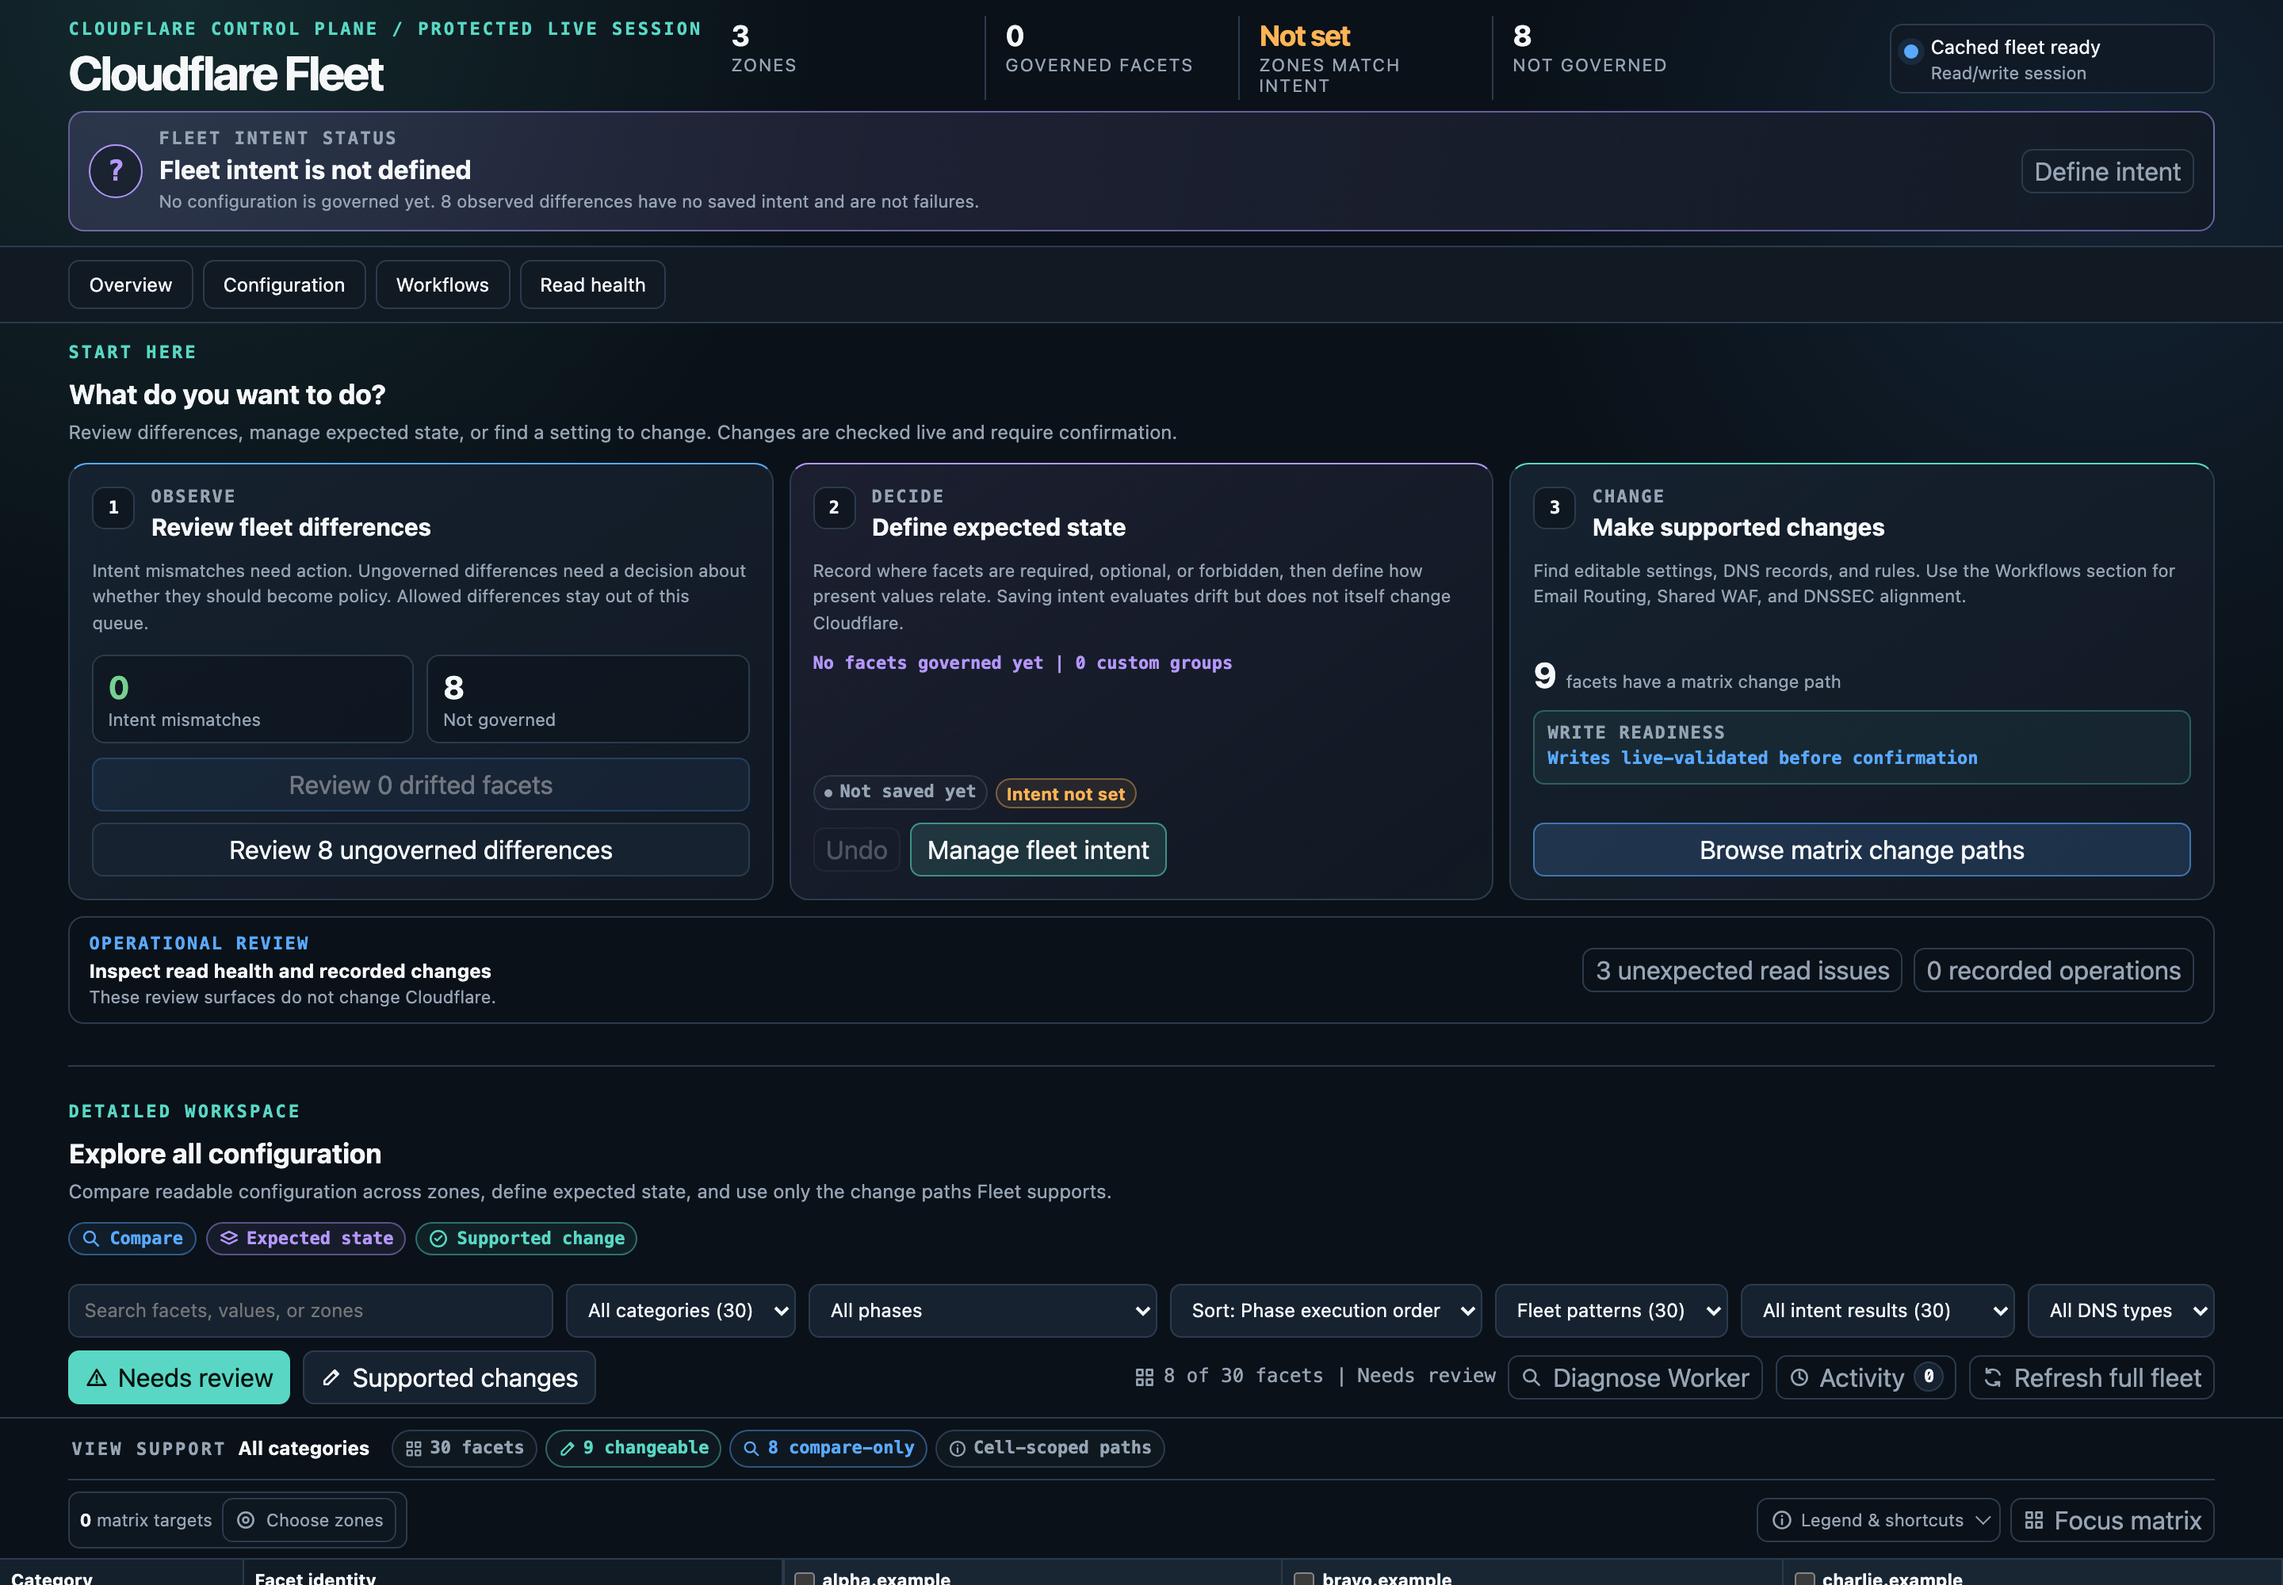
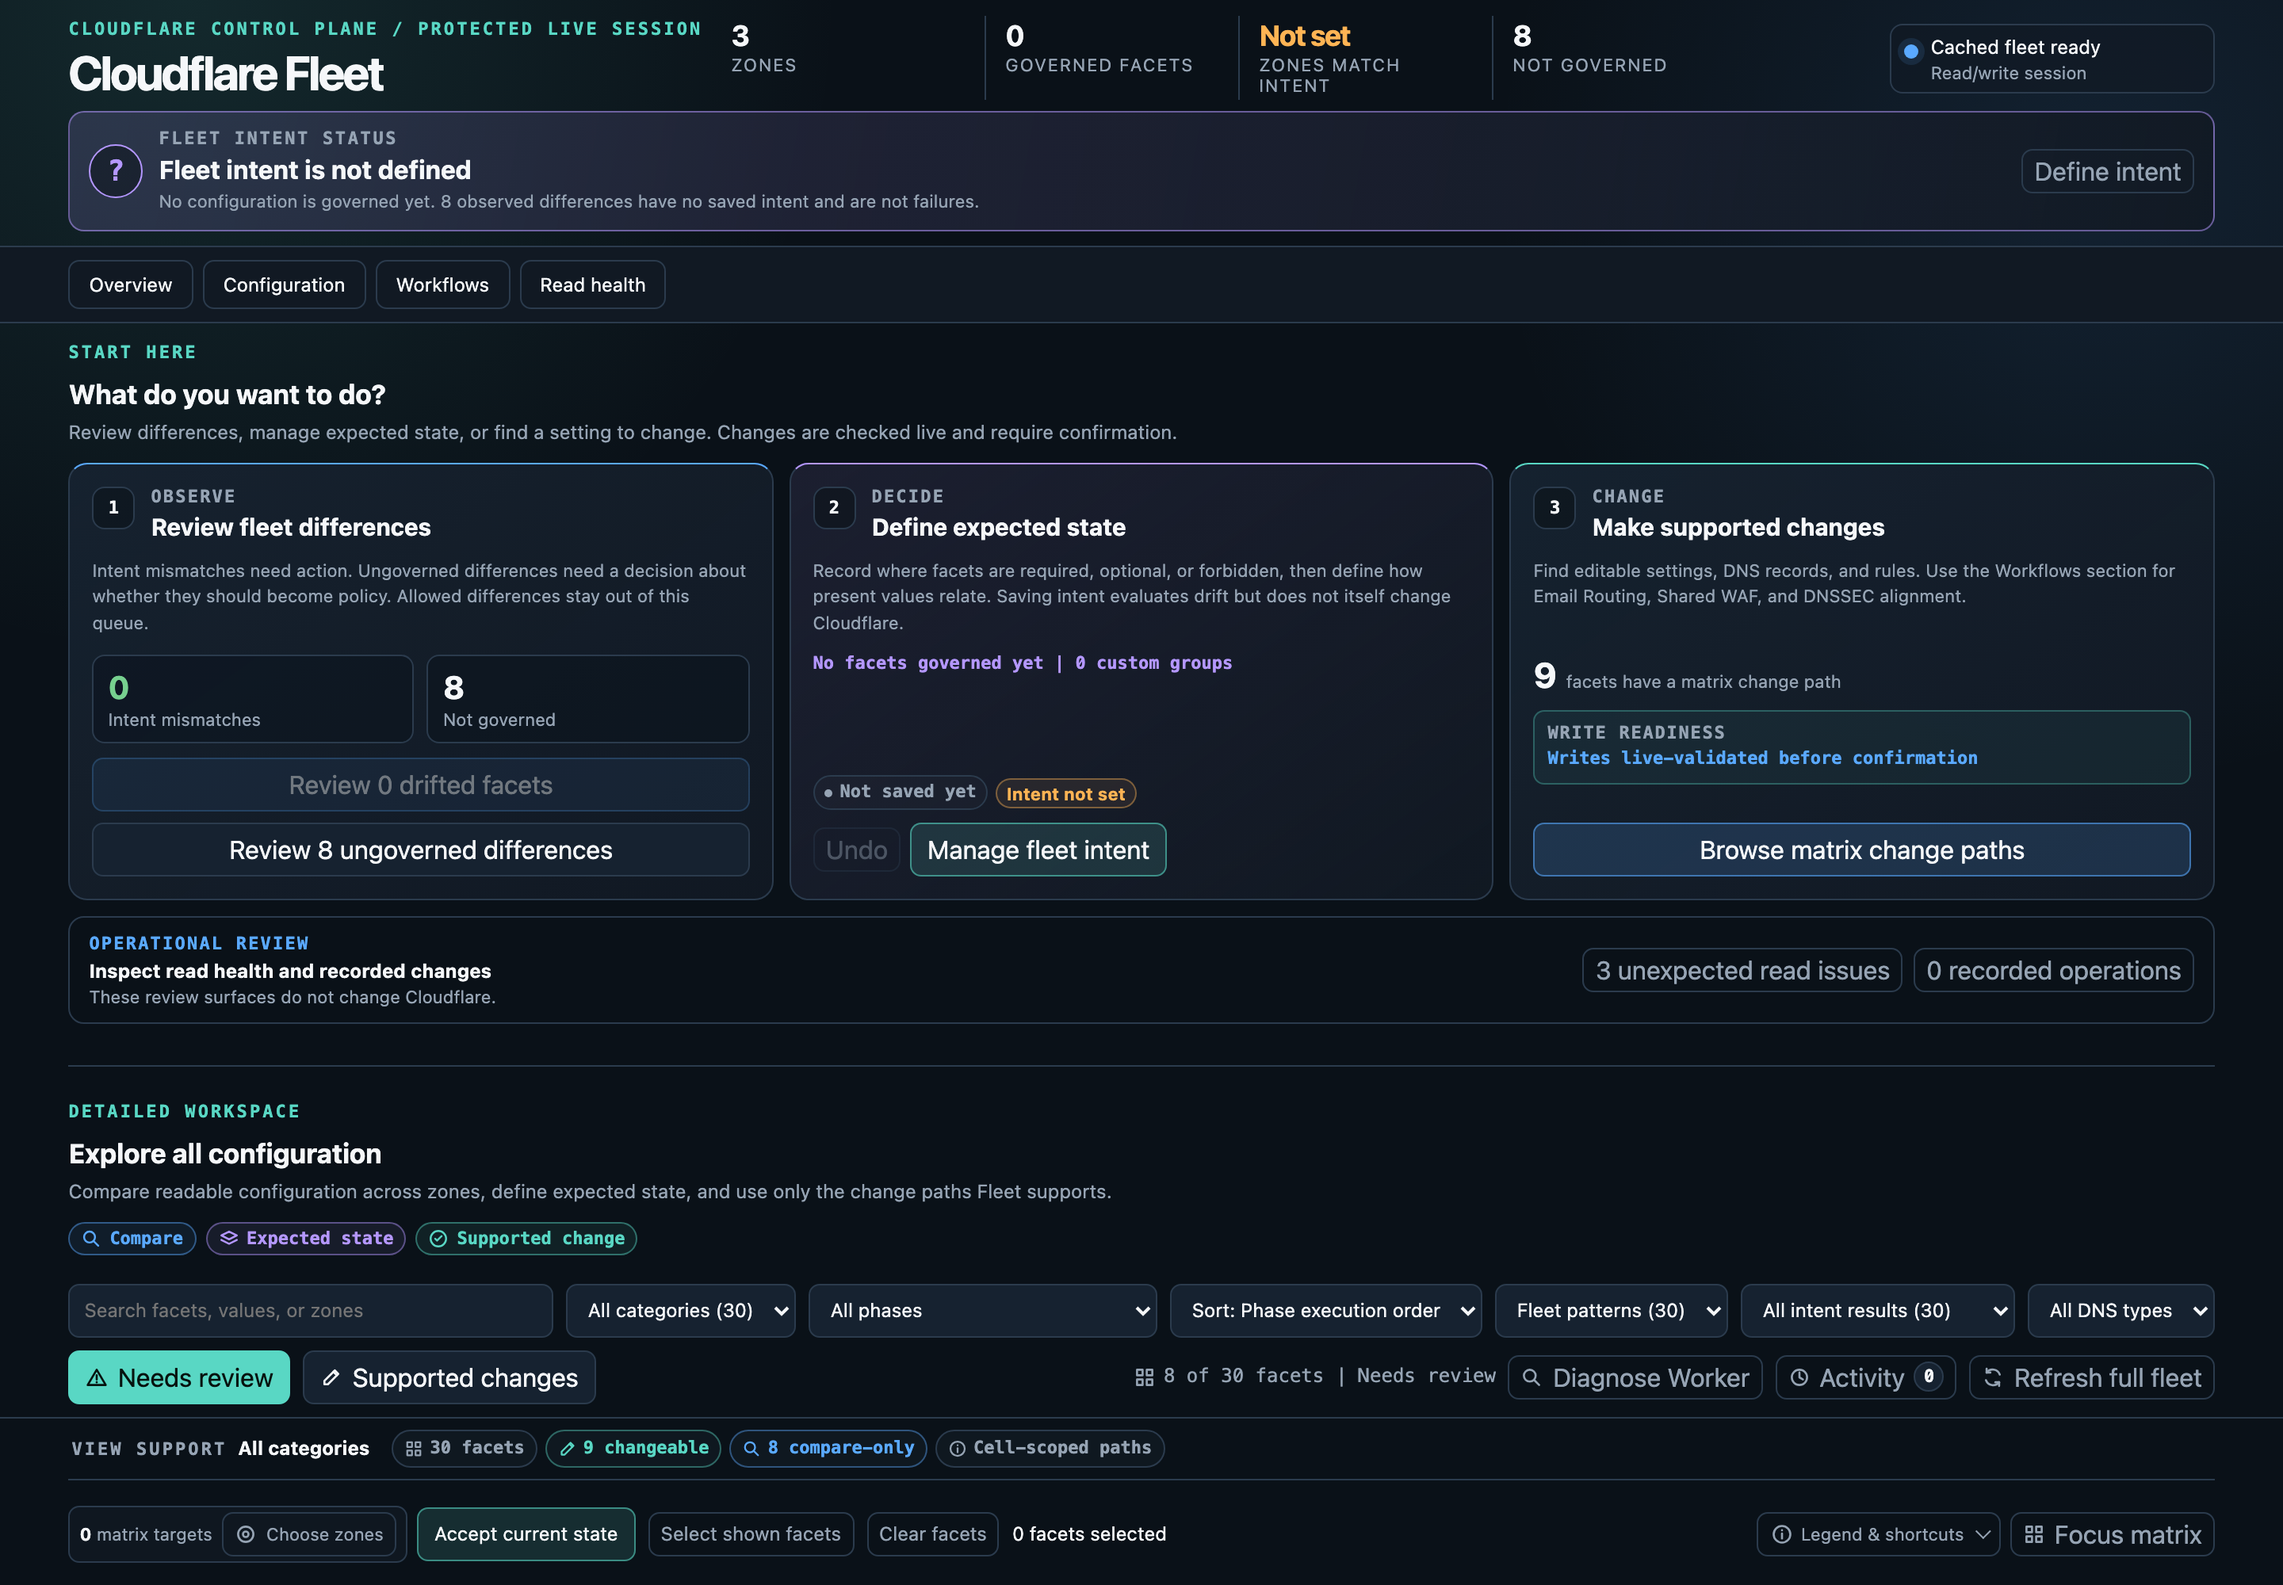
docs: illustrate current-state intent and rule copying
- Capture the compact intent editor and source and destination picker
- Explain everyday intent decisions with synthetic fleet screenshots
- Refresh product images and include them in the publication allowlist

Changed region(s): [[0.0, 0.93, 1.0, 1.0]]

diff --git a/docs/index.html b/docs/index.html
@@ -98,6 +98,22 @@
       </div>
     </section>
 
+    <section class="section" aria-labelledby="intent-workflows-heading">
+      <div class="section-heading">
+        <p class="eyebrow">Everyday configuration</p>
+        <h2 id="intent-workflows-heading">Record good state and reuse rules</h2>
+        <p>Accept current values for one facet or a selected batch, keeping deliberate differences between zones. Assign a saved expectation to several groups in one save. Copy a rule by choosing its source and destinations directly, then review the proposed changes.</p>
+      </div>
+      <figure class="screenshot-frame">
+        <img src="screenshots/intent-current.png" width="1440" height="1000" alt="Compact current-state intent editor showing selected zones, differing rule values, and one Save intent action.">
+        <figcaption class="screenshot-caption">Current is good records intent without changing Cloudflare. Rule values stay available in expandable summaries.</figcaption>
+      </figure>
+      <figure class="screenshot-frame alignment-blocker-frame">
+        <img src="screenshots/rule-copy.png" width="1440" height="1000" alt="Rule copy dialog showing a source zone, searchable destination checkboxes, a rule summary, and Review copy.">
+        <figcaption class="screenshot-caption">The copy picker selects destinations within the workflow. No global target selection is required.</figcaption>
+      </figure>
+    </section>
+
     <section class="section" aria-labelledby="alignment-heading">
       <div class="section-heading">
         <p class="eyebrow">From intent to action</p>
